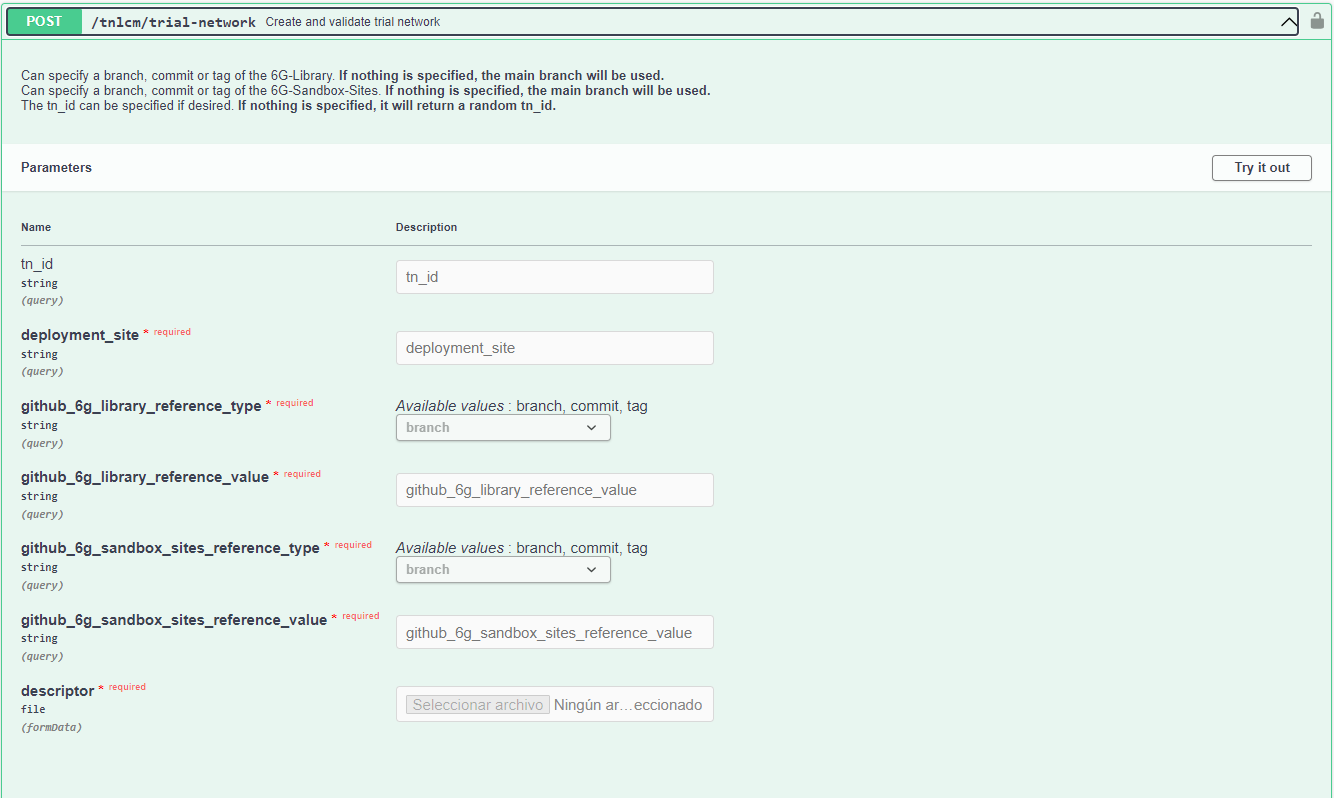
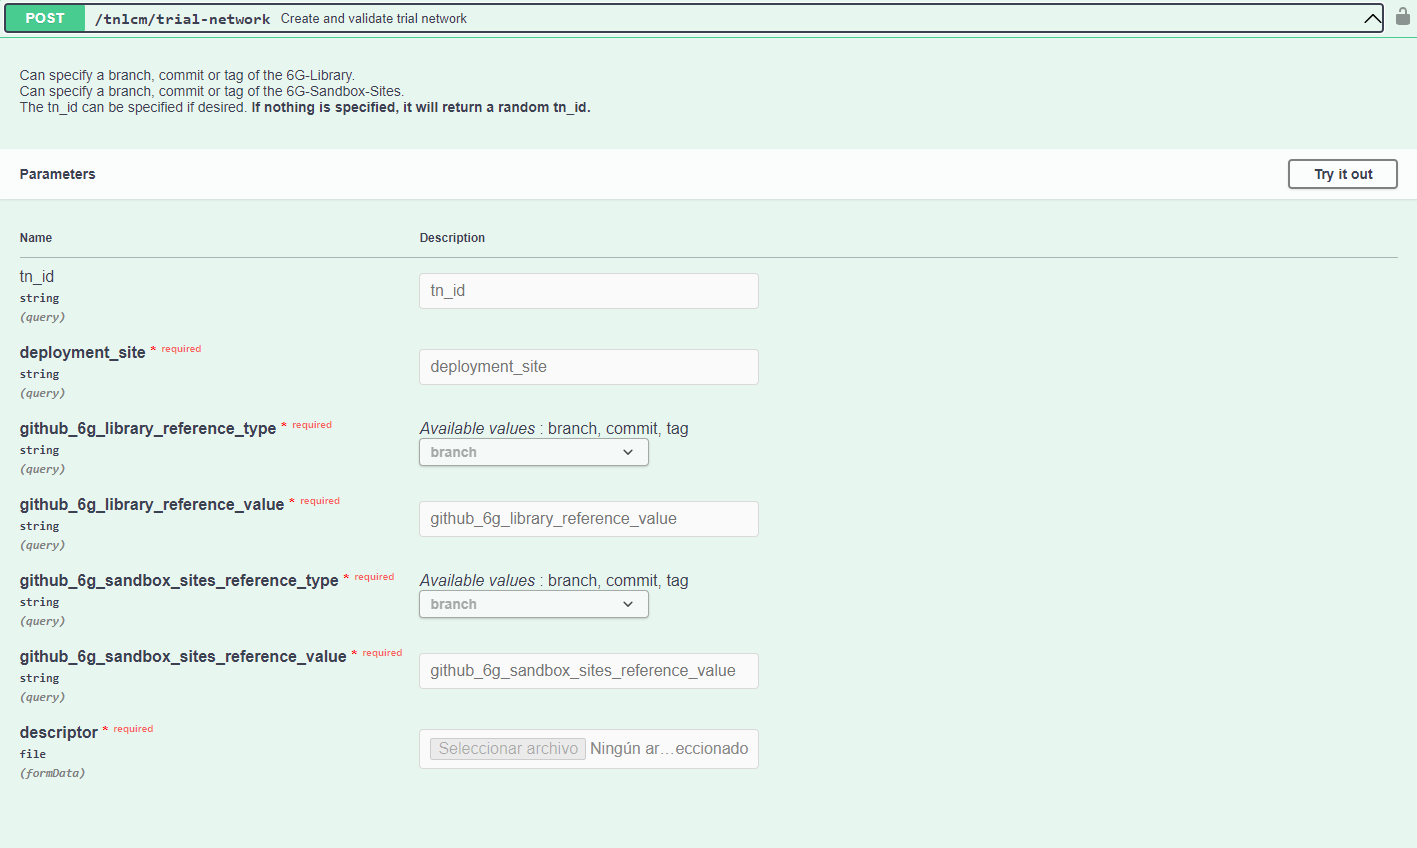
Minor changes

diff --git a/core/routes/sixg_sandbox_sites.py b/core/routes/sixg_sandbox_sites.py
@@ -34,6 +34,7 @@ class Clone(Resource):
         try:
             reference_type = self.parser_post.parse_args()["reference_type"]
             reference_value = self.parser_post.parse_args()["reference_value"]
+
             if reference_type == "branch":
                 reference_value = f"refs/heads/{reference_value}"
             elif reference_type == "commit":
@@ -49,7 +50,8 @@ class Clone(Resource):
 class Sites(Resource):
 
     parser_get = reqparse.RequestParser()
-    parser_get.add_argument("reference", type=str, required=False)
+    parser_get.add_argument("reference_type", type=str, required=True, choices=("branch", "commit", "tag"))
+    parser_get.add_argument("reference_value", type=str, required=True)
 
     @sixg_sandbox_sites_namespace.doc(security="Bearer Auth")
     @jwt_required()
@@ -60,9 +62,10 @@ class Sites(Resource):
         Can specify a branch, commit or tag of the 6G-Sandbox-Sites.
         """
         try:
-            reference = self.parser_get.parse_args()["reference"]
+            reference_type = self.parser_get.parse_args()["reference_type"]
+            reference_value = self.parser_get.parse_args()["reference_value"]
 
-            sixg_sandbox_sites_handler = SixGSandboxSitesHandler(reference=reference)
+            sixg_sandbox_sites_handler = SixGSandboxSitesHandler(reference_type=reference_type, reference_value=reference_value)
             return {"sites": sixg_sandbox_sites_handler.get_sites()}, 200
         except CustomException as e:
             return abort(e.error_code, str(e))

diff --git a/core/routes/trial_network.py b/core/routes/trial_network.py
@@ -45,8 +45,8 @@ class CreateTrialNetwork(Resource):
     def post(self):
         """
         Create and validate trial network
-        Can specify a branch, commit or tag of the 6G-Library. **If nothing is specified, the main branch will be used.**
-        Can specify a branch, commit or tag of the 6G-Sandbox-Sites. **If nothing is specified, the main branch will be used.**
+        Can specify a branch, commit or tag of the 6G-Library.
+        Can specify a branch, commit or tag of the 6G-Sandbox-Sites.
         The tn_id can be specified if desired. **If nothing is specified, it will return a random tn_id.**
         """
         try:

diff --git a/core/routes/sixg_library.py b/core/routes/sixg_library.py
@@ -25,6 +25,7 @@ class Clone(Resource):
         try:
             reference_type = self.parser_post.parse_args()["reference_type"]
             reference_value = self.parser_post.parse_args()["reference_value"]
+            
             if reference_type == "branch":
                 reference_value = f"refs/heads/{reference_value}"
             elif reference_type == "commit":
